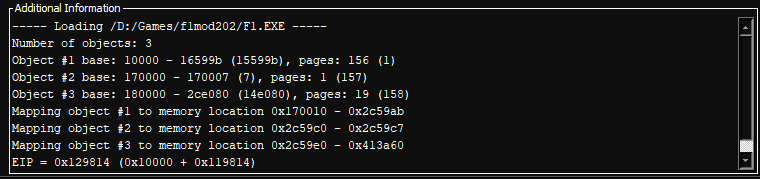
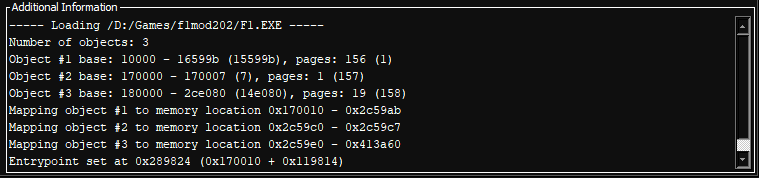
Minor enhancement

diff --git a/src/main/java/yetmorecode/ghidra/loader/lx/LxLoader.java b/src/main/java/yetmorecode/ghidra/loader/lx/LxLoader.java
@@ -108,7 +108,7 @@ public class LxLoader extends AbstractLibrarySupportLoader {
 			int eip = executable.getLeHeader().eip;
 			var o = executable.getObjects().get(executable.getLeHeader().eipObject-1);
 			eip += getBaseAddress(o);			
-			log.appendMsg(String.format("EIP = 0x%x (0x%x + 0x%x)", eip, getBaseAddress(o), executable.getLeHeader().eip));
+			log.appendMsg(String.format("Entrypoint set at 0x%x (0x%x + 0x%x)", eip, getBaseAddress(o), executable.getLeHeader().eip));
 			api.addEntryPoint(api.toAddr(eip));
 			api.disassemble(api.toAddr(eip));
 			api.createFunction(api.toAddr(eip), "_entry");
